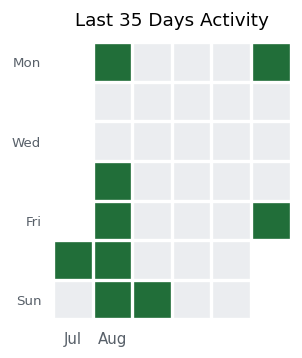
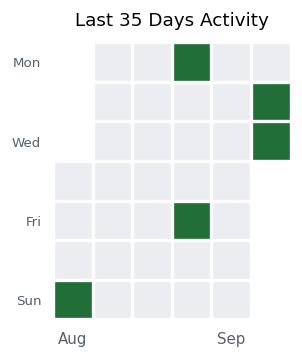
Lab Entry: 2026-09-09

diff --git a/README.md b/README.md
@@ -1,10 +1,10 @@
-# 🏃 平均週 2.4 回でつーがく中！
+# 🏃 平均週 2.3 回でつーがく中！
 <p align="center">
   <img src="./monthly_report.png" alt="Attendance Calendar">
 </p>
 
 ___
-*最終更新: 2026-08-28*
+*最終更新: 2026-09-09*
 
 ## セットアップ
 
